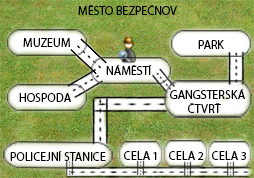
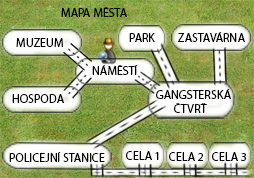
v0.2.0
- přidáno zalamování textu
- zprovozněn batoh
- úprava seznamu lokací

diff --git a/src/main/java/com/github/brer00/adventura/ui/HomeController.java b/src/main/java/com/github/brer00/adventura/ui/HomeController.java
@@ -1,36 +1,30 @@
 package com.github.brer00.adventura.ui;
 
-
-
-import java.io.FileInputStream;
-import java.io.FileNotFoundException;
 import java.io.IOException;
-import java.net.URL;
+import java.util.List;
 import java.util.Observable;
 import java.util.Observer;
 
-import com.github.brer00.adventura.logika.Hra;
 import com.github.brer00.adventura.logika.IHra;
 import com.github.brer00.adventura.logika.Lokace;
 import com.github.brer00.adventura.logika.Predmet;
 
 import javafx.fxml.FXML;
 import javafx.fxml.FXMLLoader;
-import javafx.scene.image.Image;
 import javafx.scene.Parent;
 import javafx.scene.Scene;
 import javafx.scene.control.Button;
 import javafx.scene.control.ListView;
 import javafx.scene.control.TextArea;
 import javafx.scene.control.TextField;
-import javafx.scene.layout.GridPane;
+import javafx.scene.image.Image;
 import javafx.scene.image.ImageView;
+import javafx.scene.layout.GridPane;
 import javafx.stage.Stage;
 
 /**
  * Kontroler, který zprostředkovává komunikaci mezi grafikou
  * a logikou adventury
- * 
  *
  */
 public class HomeController extends GridPane implements Observer {
@@ -43,6 +37,10 @@ public class HomeController extends GridPane implements Observer {
 	@FXML private ListView<Lokace> seznamMistnosti;
 	@FXML private ImageView imgLokace;
 	@FXML private ImageView imgMapa;
+	@FXML private ImageView imgPrdemet1;
+	@FXML private ImageView imgPrdemet2;
+	@FXML private ImageView imgPrdemet3;
+	
 	private IHra hra;
 	private Stage primaryStage;
 
@@ -66,14 +64,30 @@ public class HomeController extends GridPane implements Observer {
 
 	}
 
+	/**
+	 * incializace hry. Nastavi uvodni text, uvodni obrazky. Napoji observery
+	 */
 	public void inicializuj(IHra hra) {
         this.hra = hra;
         textVypis.setText(hra.vratUvitani());
         seznamMistnosti.getItems().addAll(hra.getHerniPlan().getAktualniLokace().getVychody());
         hra.getHerniPlan().addObserver(this);
+        hra.getHerniPlan().getBatoh().addObserver(this);
+        
+		imgPrdemet1.setImage(null);
+		imgPrdemet2.setImage(null);
+		imgPrdemet3.setImage(null);	
+		imgMapa.setImage(new Image("file:img/mapa_muzeum.png"));
+		imgLokace.setImage(new Image("file:img/obrazek_muzeum.jpg"));
+		
+		// text hry se bude spravne zalamovat - nebude pretekat mimo
+		textVypis.setWrapText(true);
 	}
 
 
+	/**
+	 * Metoda reagujici na zmenu sledovanych objektu - provadi zmeny mapy, obrazku lokace a polozek v batohu
+	 */
 	public void update(Observable o, Object arg) {		
 		
 		// vypise se aktualni seznam vychodu
@@ -90,16 +104,28 @@ public class HomeController extends GridPane implements Observer {
 		
 		
 		// aktualizace batohu
-		Predmet p = hra.getHerniPlan().getBatoh().getPredmety().get(0) ;
+		List<Predmet> predmety = hra.getHerniPlan().getBatoh().getPredmety();		
+		imgPrdemet1.setImage(null);
+		imgPrdemet2.setImage(null);
+		imgPrdemet3.setImage(null);
+		switch (predmety.size()) {
+		case 3:
+			 image = new Image("file:img/" + predmety.get(2).getUrlObrazek());		
+			 imgPrdemet3.setImage(image);	
+			 System.out.println("img3");
+		case 2:
+			 image = new Image("file:img/" + predmety.get(1).getUrlObrazek());		
+			 imgPrdemet2.setImage(image);
+			 System.out.println("img2");
+		case 1:
+			 image = new Image("file:img/" + predmety.get(0).getUrlObrazek());		
+			 imgPrdemet1.setImage(image);
+			 System.out.println("img1");
+		default:
+			break;
+		}
 		
-		
-		
-		
-		
-			
 	}
-
-
 
 	@FXML
 	void zpetDoMenu() throws IOException{
@@ -112,7 +138,7 @@ public class HomeController extends GridPane implements Observer {
 
 		primaryStage.setScene(new Scene(root));
 		primaryStage.show();
-		primaryStage.setTitle("Základní adventura");
+		primaryStage.setTitle("Adventura | Menu hry");
 	}
 	
 	@FXML
@@ -120,6 +146,7 @@ public class HomeController extends GridPane implements Observer {
 		textVypis.appendText("\n\n Konec hry \n");
 		textVstup.setDisable(true);
 		odesli.setDisable(true);	
+		konec.setDisable(true);
 	}
 
 	public Stage getPrimaryStage() {

diff --git a/src/main/java/com/github/brer00/adventura/logika/HerniPlan.java b/src/main/java/com/github/brer00/adventura/logika/HerniPlan.java
@@ -66,8 +66,7 @@ public class HerniPlan extends Observable {
         cela1.setUrlMapa("mapa_cela1.png");
         cela2.setUrlMapa("mapa_cela2.png");
         cela3.setUrlMapa("mapa_cela3.png");
-        
-       
+          
         // přiřazují se průchody mezi lokacemi (sousedící lokace)
         muzeum.setVychod(namesti);  
         namesti.setVychod(muzeum);
@@ -106,7 +105,16 @@ public class HerniPlan extends Observable {
         zastavarna.vlozPredmet(obraz);
         Predmet bankovka = new Predmet("bankovka", "Ta bankovka je špinavá! Černá barva – stejná jako na odhozeném rámu obrazu v gangsterké čtvrti.", true);
         zastavarna.vlozPredmet(bankovka);
-                
+             
+        bankovka.setUrlObrazek("batoh_bankovka.png");
+        karticka.setUrlObrazek("batoh_karticka.png");
+        kukla.setUrlObrazek("batoh_kukla.png");
+        obraz.setUrlObrazek("batoh_obraz.png");
+        otiskBoty.setUrlObrazek("batoh_otiskboty.png");
+        paruka.setUrlObrazek("batoh_paruka.png");
+        penezenka.setUrlObrazek("batoh_penezenka.png");
+        ramObrazu.setUrlObrazek("batoh_ramobrazu.png");
+      
         // vytvoreni postav a jejich umisteni
         Postava pivar = new Postava("pivar_pepa", "Klouzek: Neviděl jste někoho s obrazem?\n" +
         "Pepa: Jojo, viděl jsem támle na náměstí běžet chlapa.\n" +

diff --git a/src/main/java/com/github/brer00/adventura/logika/Batoh.java b/src/main/java/com/github/brer00/adventura/logika/Batoh.java
@@ -124,6 +124,5 @@ public class Batoh extends Observable {
 	public int getKapacita() {
 		return kapacita;
 	}
-    
- 	
+	
 }
